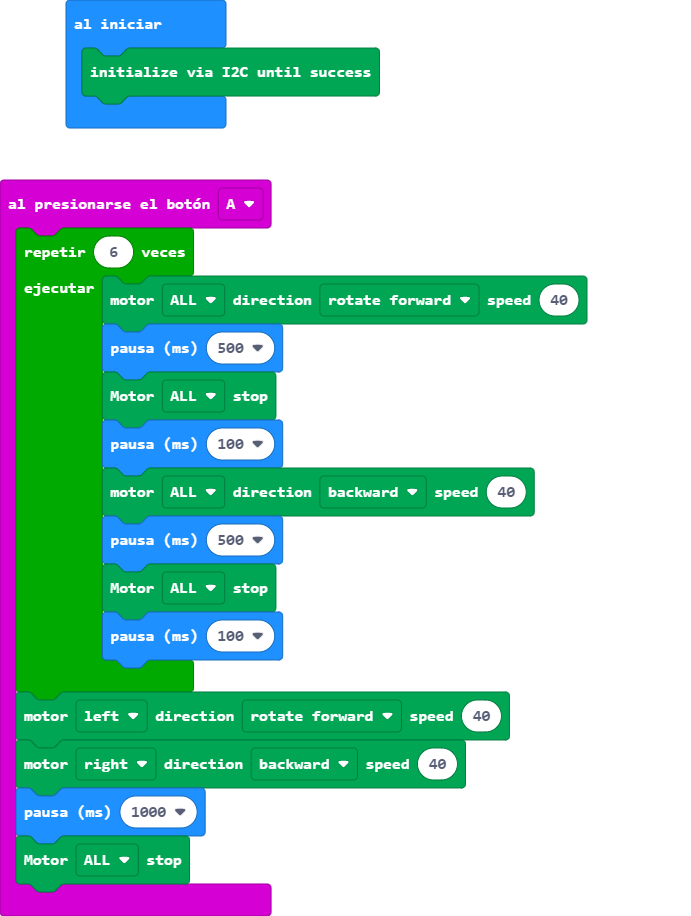
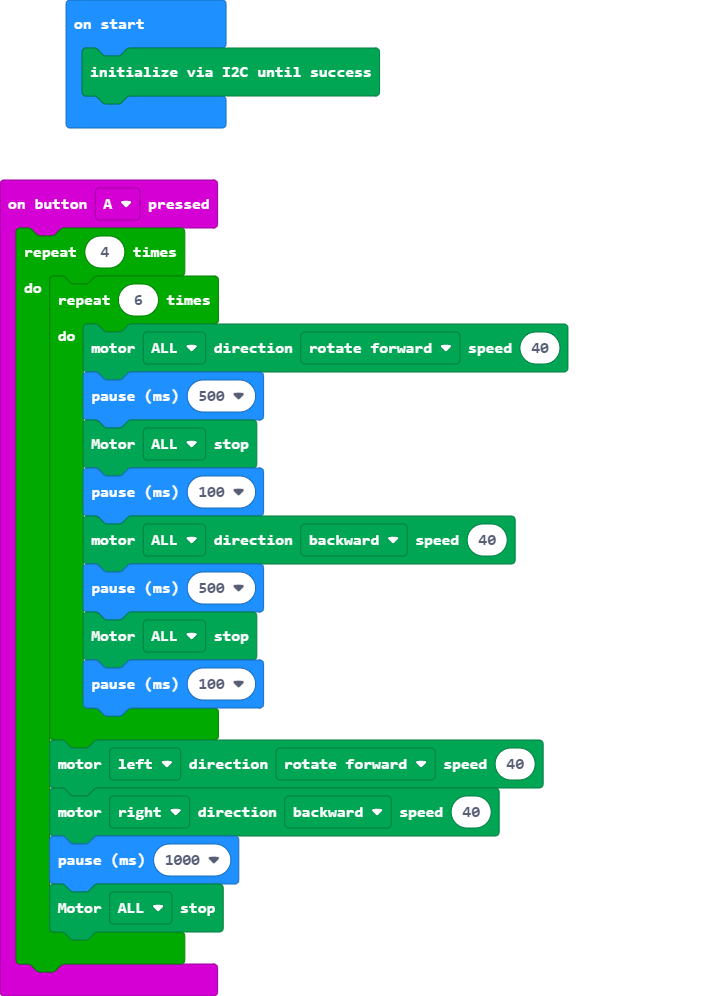
Update main.blocks, main.ts

Changed region(s): [[0.0, 0.0, 0.8509, 1.0]]

diff --git a/main.ts b/main.ts
@@ -1,17 +1,19 @@
 input.onButtonPressed(Button.A, function () {
-    for (let index = 0; index < 6; index++) {
-        DFRobotMaqueenPlus.mototRun(Motors.ALL, Dir.CW, 40)
-        basic.pause(500)
+    for (let index = 0; index < 4; index++) {
+        for (let index = 0; index < 6; index++) {
+            DFRobotMaqueenPlus.mototRun(Motors.ALL, Dir.CW, 40)
+            basic.pause(500)
+            DFRobotMaqueenPlus.mototStop(Motors.ALL)
+            basic.pause(100)
+            DFRobotMaqueenPlus.mototRun(Motors.ALL, Dir.CCW, 40)
+            basic.pause(500)
+            DFRobotMaqueenPlus.mototStop(Motors.ALL)
+            basic.pause(100)
+        }
+        DFRobotMaqueenPlus.mototRun(Motors.M1, Dir.CW, 40)
+        DFRobotMaqueenPlus.mototRun(Motors.M2, Dir.CCW, 40)
+        basic.pause(1000)
         DFRobotMaqueenPlus.mototStop(Motors.ALL)
-        basic.pause(100)
-        DFRobotMaqueenPlus.mototRun(Motors.ALL, Dir.CCW, 40)
-        basic.pause(500)
-        DFRobotMaqueenPlus.mototStop(Motors.ALL)
-        basic.pause(100)
     }
-    DFRobotMaqueenPlus.mototRun(Motors.M1, Dir.CW, 40)
-    DFRobotMaqueenPlus.mototRun(Motors.M2, Dir.CCW, 40)
-    basic.pause(1000)
-    DFRobotMaqueenPlus.mototStop(Motors.ALL)
 })
 DFRobotMaqueenPlus.I2CInit()
